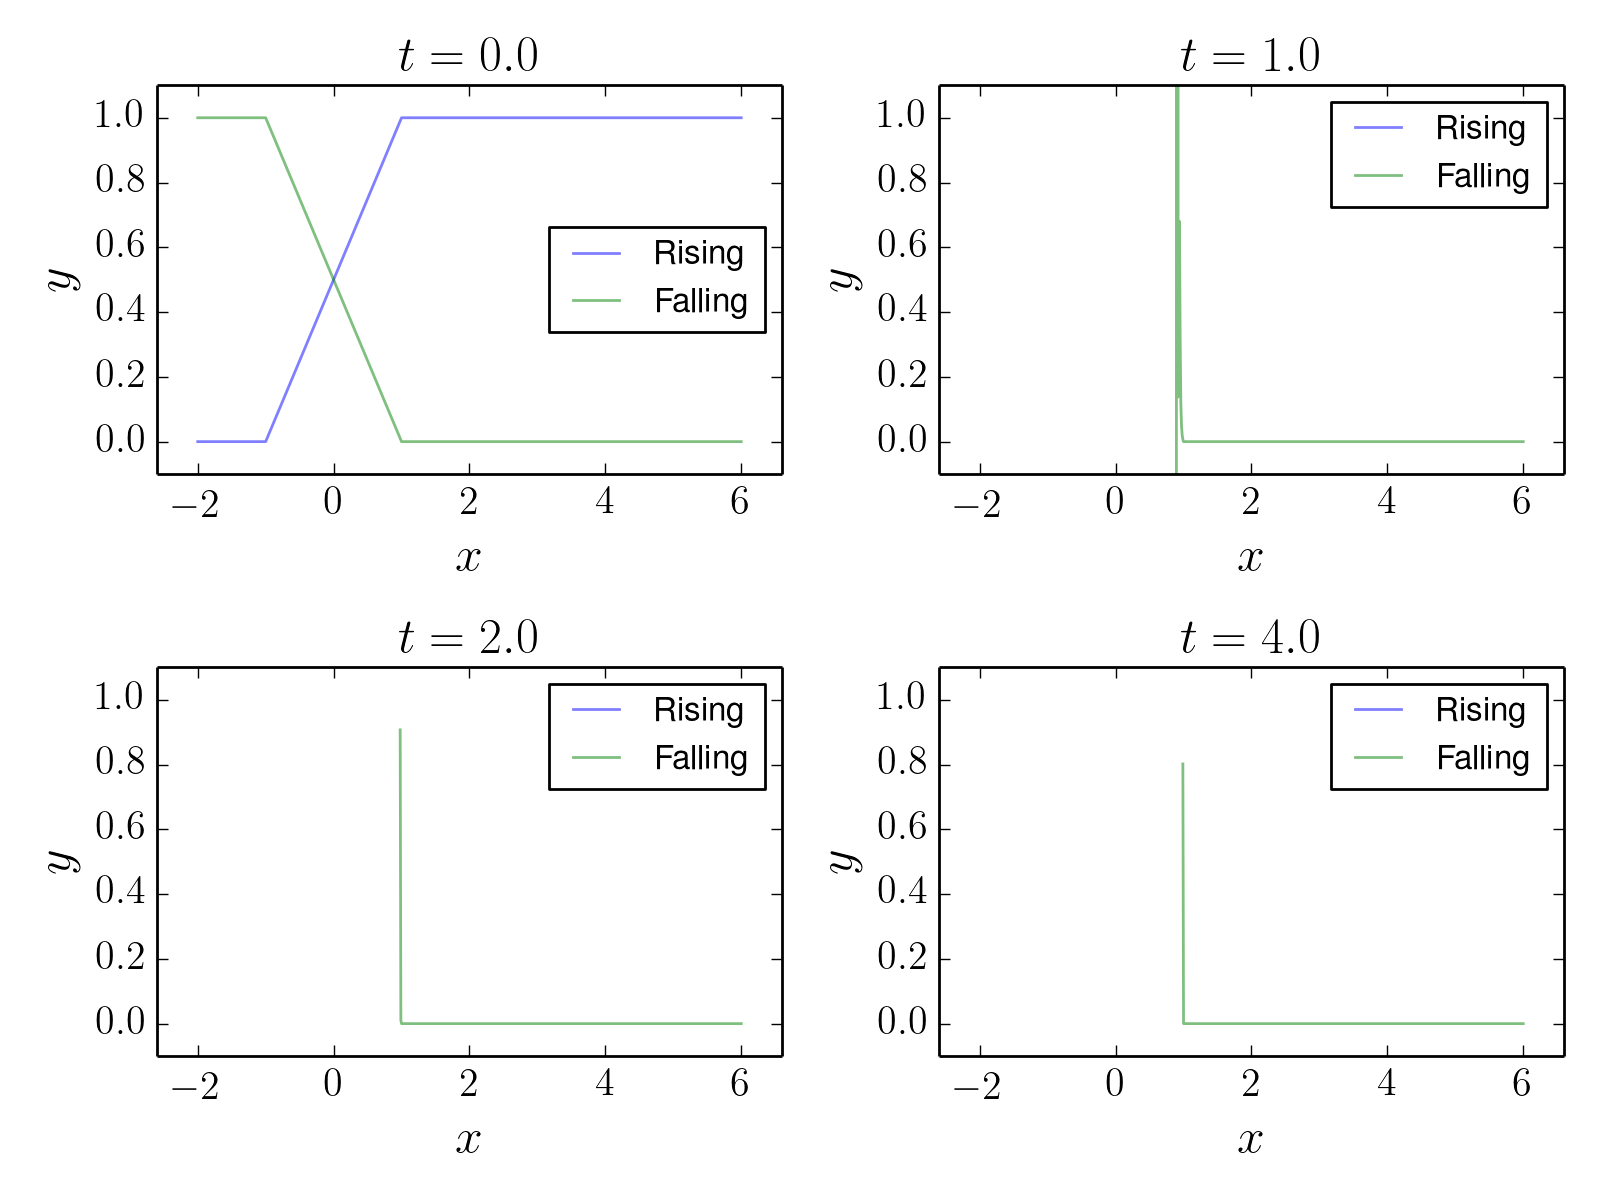
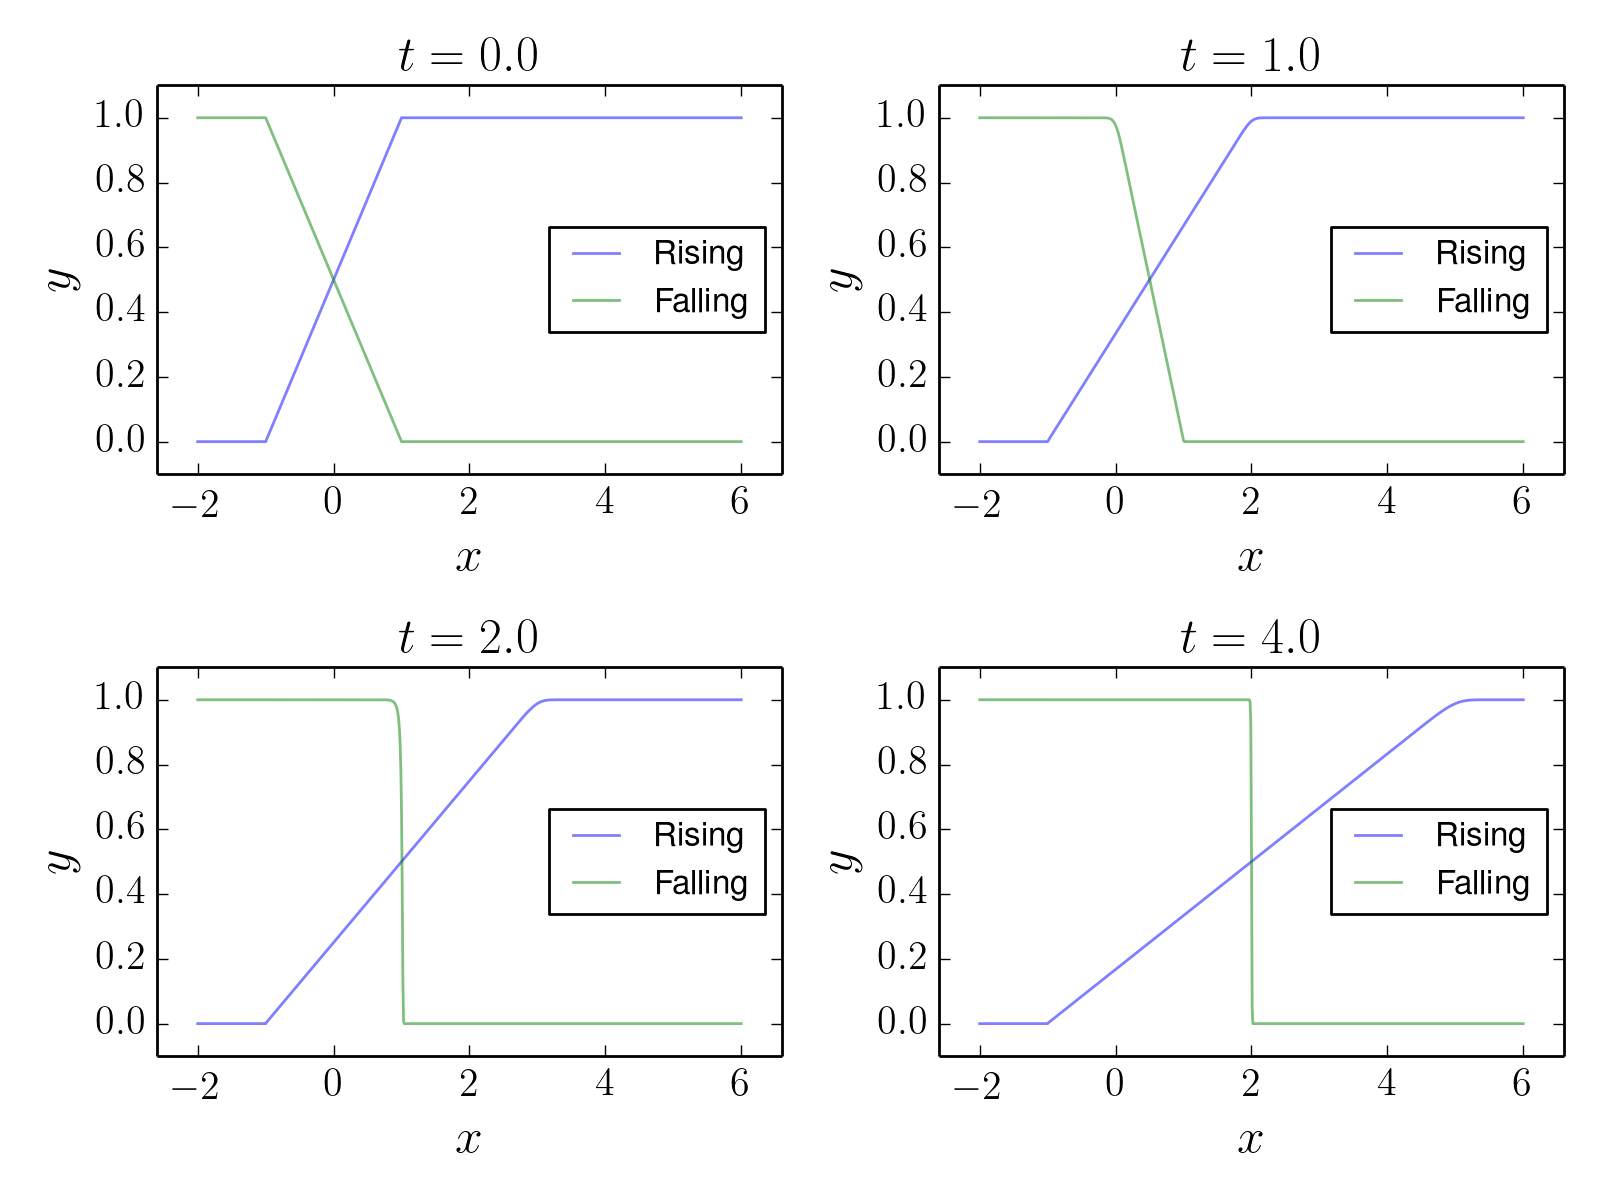
godunov's method now works, albeit with looping only

diff --git a/burgers.py b/burgers.py
@@ -56,26 +56,40 @@ def godunov(y, dt, dx):
 	'''
 
 	y = np.concatenate((np.array([y[0]]), y, np.array([y[-1]])))
-	Sm = 0.5 * ( y[1:-1] + y[ :-2] )
-	Sp = 0.5 * ( y[1:-1] + y[2:  ] )
 
-	fp = np.zeros(len(y))
-	fm = np.zeros(len(y))
+	fp = np.zeros(len(y) - 2)
+	fm = np.zeros(len(y) - 2)
+	Sp = np.zeros(len(y) - 2)
+	Sm = np.zeros(len(y) - 2)
 
-	fp[Sp > 0] = (0.5*(y[1:-1])**2.)[Sp > 0]
-	fp[Sp < 0] = (0.5*(y[2:  ])**2.)[Sp < 0]
-	Spbad = [np.abs(y[1:-1] - y[2:]) < 1e-5] #when the amounts on each side are almost equal
-	fp[Spbad] = (0.5 * y[1:-1]**2.)[Spbad]
+	for i in range(len(fp)):
+		#first build the fp array
+		if np.abs(y[i+1] - y[i+2]) > 1e-10:
+			#do the normal case
+			Sp_i = 0.5 * (y[i+1] + y[i+2])
+			if Sp_i > 0:
+				fp[i] = 0.5 * y[i + 1]**2.
+			elif Sp_i < 0:
+				fp[i] = 0.5 * y[i + 2]**2.
+			Sp[i] = Sp_i
+		else: #i.e., if np.abs(y[i+1] - y[i+2]) < 1e-10:
+			#do the special case  
+			fp[i] = 0.5 * y[i + 1]**2.
 
-	#print np.sum(Spbad)
-	#print np.sum(fp == 0.)
+		#now build the fm array
+		if np.abs(y[i] - y[i+1]) > 1e-10:
+			#do the normal case
+			Sm_i = 0.5 * (y[i] + y[i+1])
+			if Sm_i > 0:
+				fm[i] = 0.5 * y[i]**2.
+			elif Sm_i < 0:
+				fm[i] = 0.5 * y[i + 1]**2.
+			Sm[i] = Sm_i
+		else:
+			fm[i] = 0.5 * y[i]**2.
 
-	fm[Sm > 0] = (0.5*(y[1:-1])**2.)[Sm > 0]
-	fm[Sm < 0] = (0.5*(y[ :-2])**2.)[Sm < 0]
-	Smbad = [np.abs(y[1:-1] - y[:-2]) < 1e-5]
-	fm[Smbad] = (0.5 * y[1:-1]**2.)[Smbad]
-	
-	y_new = y[1:-1] - dt/dx * (fp[2:] - fm[:-2])
+	y_new = y[1:-1] - dt/dx * (fp - fm)
+
 	return y_new
 
 def Q1(dx, dt, xlims, tlims):
@@ -211,7 +225,7 @@ def Q2(dx, dt, xlims, tlims):
 	plt.tight_layout()
 	plt.savefig('Q2.png')
 
-def Q3_4_5(dx, dt, xlims, tlims):
+def Q3_4_5(dx, dt, xlims, tlims, test = False):
 	xr, yr = start(dx, xlims, 'r')
 
 	xf, yf = start(dx, xlims, 'f')
@@ -228,73 +242,65 @@ def Q3_4_5(dx, dt, xlims, tlims):
 	plot_times = [0., 1., 2., 4.]
 	plot_yn_a = np.array([ ( np.abs(ts - time) == np.min(np.abs(ts - time)) ) for time in plot_times]).sum(axis = 0) > 0
 
-	plt.close('all')
-	plt.figure(figsize = (6, 4))
+	if test == True:
+		yr = godunov(yr, dt, dx)
+		yf = godunov(yf, dt, dx)
 
-	print yr[:3], yr[-3:]
-	plt.plot(xr, yr, label = '$n=0$', c = 'b', alpha = 0.5)
-	
-	yr = godunov(yr, dt, dx)
-	yr_h = np.row_stack((yr_h, yr))
-	yf_h = np.row_stack((yf_h, yf))
-	print yr[:3], yr[-3:]
-	plt.plot(xr, yr, label = '$n=1$', c = 'g', linestyle = '--', alpha = 0.5)
+		plt.close('all')
 
-	plt.show()
+		plt.figure(figsize = (6, 4))
+		plt.plot(xr, yr, label = 'Rising', c = 'b', alpha = 0.5)
+		plt.plot(xf, yf, label = 'Falling', c = 'g', alpha = 0.5)
+		plt.legend(loc = 'best')
 
-	'''
-	yr = godunov(yr, dt, dx)
-	yf = godunov(yf, dt, dx)
+		plt.xlim([xlims[0] - 0.1*xlims[1], 1.1*xlims[1]])
+		plt.ylim([-0.1, 1.1])
 
-	plt.figure(figsize = (6, 4))
-	plt.plot(xr, yr, label = 'Rising', c = 'b', alpha = 0.5)
-	plt.plot(xf, yf, label = 'Falling', c = 'g', alpha = 0.5)
-	plt.legend(loc = 'best')
+		plt.show()
+	else:
 
-	plt.xlim([xlims[0] - 0.1*xlims[1], 1.1*xlims[1]])
-	plt.ylim([-0.1, 1.1])
+		plt.close('all')
 
-	plt.show()
-	'''
+		fig = plt.figure()
+		ax1 = plt.subplot(221)
+		ax2 = plt.subplot(222)
+		ax3 = plt.subplot(223)
+		ax4 = plt.subplot(224)
+		
+		for time, ax in zip(plot_times, [ax1, ax2, ax3, ax4]):
+			ax.set_xlabel('$x$', size = 18)
+			ax.set_ylabel('$y$', size = 18)
+			ax.set_ylim([-0.1, 1.1])
+			ax.set_xlim([xlims[0] - 0.1*xlims[1], 1.1*xlims[1]])
+			ax.set_title('$t = {}$'.format(time), size = 18)
 
-	'''
-	fig = plt.figure()
-	ax1 = plt.subplot(221)
-	ax2 = plt.subplot(222)
-	ax3 = plt.subplot(223)
-	ax4 = plt.subplot(224)
-	
-	for time, ax in zip(plot_times, [ax1, ax2, ax3, ax4]):
-		ax.set_xlabel('$x$', size = 18)
-		ax.set_ylabel('$y$', size = 18)
-		ax.set_ylim([-0.1, 1.1])
-		ax.set_xlim([xlims[0] - 0.1*xlims[1], 1.1*xlims[1]])
-		ax.set_title('$t = {}$'.format(time), size = 18)
+		num_plots_done = 0
 
-	num_plots_done = 0
+		for t, plot_yn in zip(ts, plot_yn_a):
+			if t != 0.:
+				#print 'running', t
+				yr, yr_prev = godunov(yr, dt, dx), yr
+				#print np.sum(yr == yr_prev)
+				yf, yf_prev = godunov(yf, dt, dx), yf
+				#print np.sum(yf == yf_prev)
+				yr_h = np.row_stack((yr_h, yr))
+				yf_h = np.row_stack((yf_h, yf))
 
-	for t, plot_yn in zip(ts, plot_yn_a):
-		if t != 0.:
-			yr = godunov(yr, dt, dx)
-			yf = godunov(yf, dt, dx)
-			yr_h = np.row_stack((yr_h, yr))
-			yf_h = np.row_stack((yf_h, yf))
+			axs = [ax1, ax2, ax3, ax4]
 
-		axs = [ax1, ax2, ax3, ax4]
+			if plot_yn == True:
+				print 'plotting', axs[num_plots_done]
+				axs[num_plots_done].plot(xr, yr, label = 'Rising', c = 'b', alpha = 0.5)
+				axs[num_plots_done].plot(xf, yf, label = 'Falling', c = 'g', alpha = 0.5)
 
-		if plot_yn == True:
-			axs[num_plots_done].plot(xr, yr, label = 'Rising', c = 'b', alpha = 0.5)
-			axs[num_plots_done].plot(xf, yf, label = 'Falling', c = 'g', alpha = 0.5)
+				axs[num_plots_done].legend(loc = 'best')
+				num_plots_done += 1
 
-			axs[num_plots_done].legend(loc = 'best')
-			num_plots_done += 1
-
-	plt.tight_layout()
-	plt.savefig('Q3.png')
-	'''
+		plt.tight_layout()
+		plt.savefig('Q3.png')
 
 	#now plot the total integrated quantity across time for each case
-
+	'''
 	Yr = np.sum(yr_h, axis = -1) * dx
 	Yf = np.sum(yf_h, axis = -1) * dx
 
@@ -308,3 +314,4 @@ def Q3_4_5(dx, dt, xlims, tlims):
 	plt.ylabel('$Y$', size = 18)
 	plt.tight_layout()
 	plt.savefig('Q4.png')
+	'''
